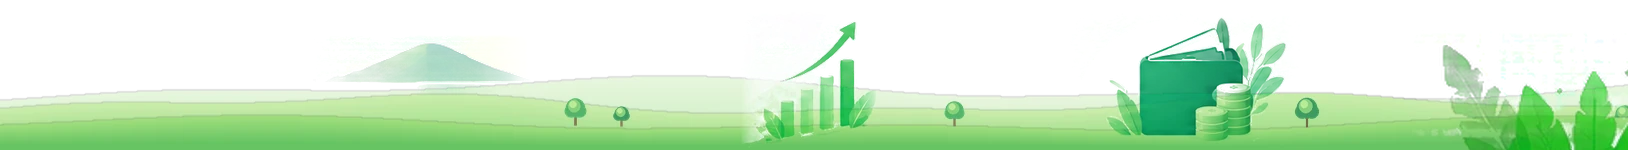
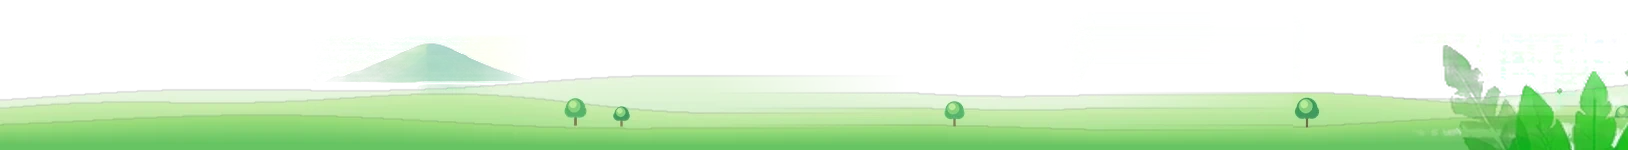
Bannières allégées et barre de recherche plus sobre
- Bannières Ventes et L'argent : document, trophée, graphique et
  portefeuille retirés, le paysage est reconstitué à leur place.
- Recherche : champ fin (40 px), filet discret, fond à peine teinté,
  anneau vert à l'activation ; raccourci Ctrl+K (⌘K sur Mac).

Changed region(s): [[0.6757, 0.1333, 0.7985, 0.9333], [0.43, 0.16, 0.5528, 0.96]]

diff --git a/src/components/coquille.css b/src/components/coquille.css
@@ -156,41 +156,70 @@
   display: flex;
   align-items: center;
   gap: 16px;
-  padding: 14px 28px;
+  padding: 10px 28px;
 }
+/* La recherche : un champ discret, fin filet et fond à peine teinté,
+   qui ne prend de relief qu'une fois activé. */
 .coq-search {
   flex: 1;
   min-width: 0;
-  max-width: 560px;
+  max-width: 480px;
+  height: 40px;
   display: flex;
   align-items: center;
   gap: 10px;
-  background: var(--card);
-  border-radius: 999px;
-  padding: 11px 18px;
-  box-shadow: var(--coq-shadow);
+  padding: 0 8px 0 12px;
+  background: color-mix(in srgb, var(--coq-ink) 4%, var(--card));
+  border: 1px solid var(--border);
+  border-radius: 10px;
   color: var(--coq-muted);
+  transition:
+    border-color 0.15s,
+    background-color 0.15s,
+    box-shadow 0.15s;
+}
+.coq-search:hover {
+  border-color: color-mix(in srgb, var(--coq-ink) 18%, var(--border));
+}
+.coq-search:focus-within {
+  background: var(--card);
+  border-color: var(--coq-g);
+  box-shadow: 0 0 0 3px color-mix(in srgb, var(--coq-g) 16%, transparent);
 }
 .coq-search .ico {
-  width: 18px;
-  height: 18px;
+  width: 16px;
+  height: 16px;
+  flex: none;
 }
 .coq-search input {
+  flex: 1;
   border: 0;
   background: none;
   outline: 0;
   font: inherit;
   font-size: 0.875rem;
   color: var(--coq-ink);
-  width: 100%;
   min-width: 0;
 }
 .coq-search input::placeholder {
   color: var(--coq-muted);
 }
-.coq-search:focus-within {
-  outline: 2px solid var(--coq-g);
-  outline-offset: 2px;
+.coq-search input::-webkit-search-cancel-button {
+  cursor: pointer;
+}
+.coq-kbd {
+  flex: none;
+  padding: 2px 6px;
+  border: 1px solid var(--border);
+  border-bottom-width: 2px;
+  border-radius: 6px;
+  background: var(--card);
+  font-family: inherit;
+  font-size: 11px;
+  font-weight: 600;
+  line-height: 1.3;
+  color: var(--coq-muted);
+  white-space: nowrap;
 }
 .coq-tools {
   margin-left: auto;
@@ -251,7 +280,10 @@
     height: 20px;
   }
   .coq-search {
-    padding: 9px 14px;
+    height: 38px;
+  }
+  .coq-kbd {
+    display: none;
   }
 }
 @media (max-width: 380px) {
@@ -264,6 +296,6 @@
     height: 19px;
   }
   .coq-search {
-    padding: 9px 12px;
+    padding: 0 8px 0 10px;
   }
 }

diff --git a/src/components/Header.tsx b/src/components/Header.tsx
@@ -1,4 +1,4 @@
-import React, { useCallback, useRef, useState } from "react";
+import React, { useCallback, useEffect, useRef, useState } from "react";
 import { ActiveTab, StoreSettings } from "../types";
 import {
   Store,
@@ -295,6 +295,20 @@ export const Header: React.FC<HeaderProps> = ({
   };
 
   const [recherche, setRecherche] = useState("");
+  const champRecherche = useRef<HTMLInputElement>(null);
+  // Ctrl+K (⌘K sur Mac) place le curseur dans la recherche, d'où qu'on soit.
+  const surMac = typeof navigator !== "undefined" && /Mac|iPhone|iPad/.test(navigator.platform);
+  useEffect(() => {
+    const raccourci = (e: KeyboardEvent) => {
+      if ((e.ctrlKey || e.metaKey) && e.key.toLowerCase() === "k") {
+        e.preventDefault();
+        champRecherche.current?.focus();
+        champRecherche.current?.select();
+      }
+    };
+    window.addEventListener("keydown", raccourci);
+    return () => window.removeEventListener("keydown", raccourci);
+  }, []);
   const lancerRecherche = () => {
     const texte = recherche.trim();
     if (!texte) return;
@@ -575,13 +589,20 @@ export const Header: React.FC<HeaderProps> = ({
           >
             <Icone nom="search" />
             <input
+              ref={champRecherche}
               type="search"
               value={recherche}
               onChange={(e) => setRecherche(e.target.value)}
-              placeholder="Rechercher..."
+              placeholder="Rechercher…"
               aria-label="Rechercher"
+              aria-keyshortcuts={surMac ? "Meta+K" : "Control+K"}
               enterKeyHint="search"
             />
+            {!recherche && (
+              <kbd className="coq-kbd" aria-hidden="true">
+                {surMac ? "⌘" : "Ctrl"} K
+              </kbd>
+            )}
           </form>
 
           <div className="coq-tools">
